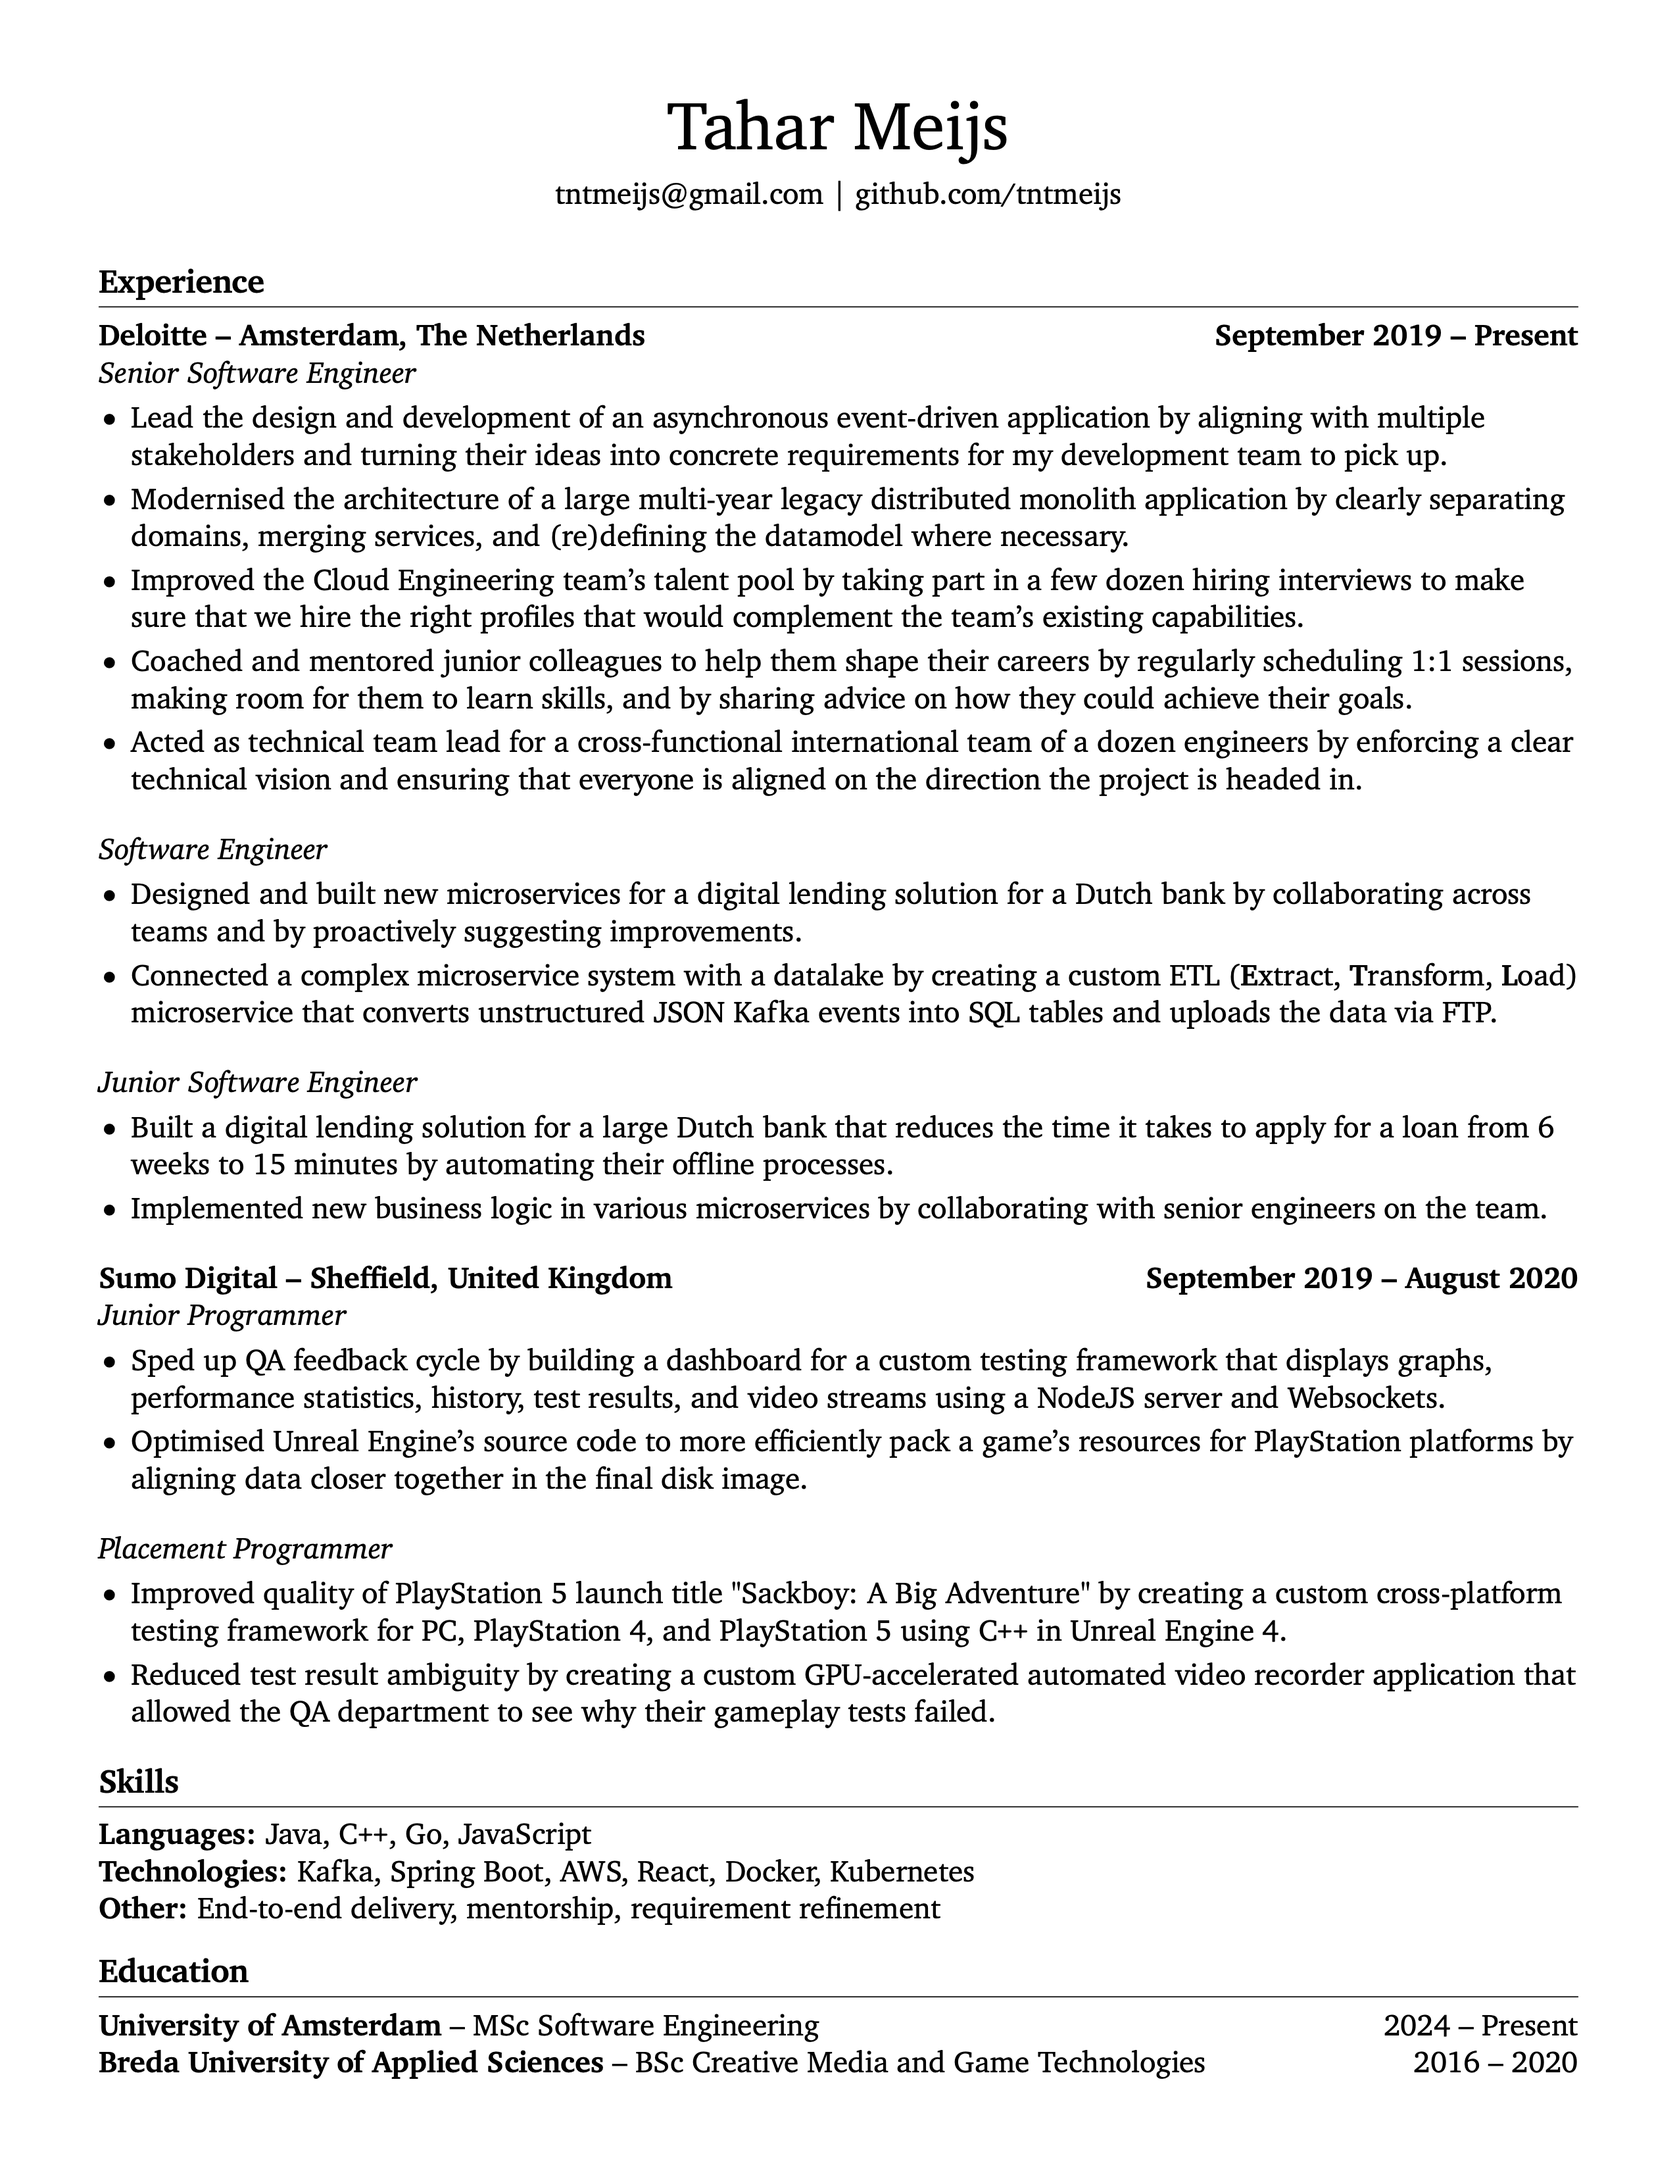
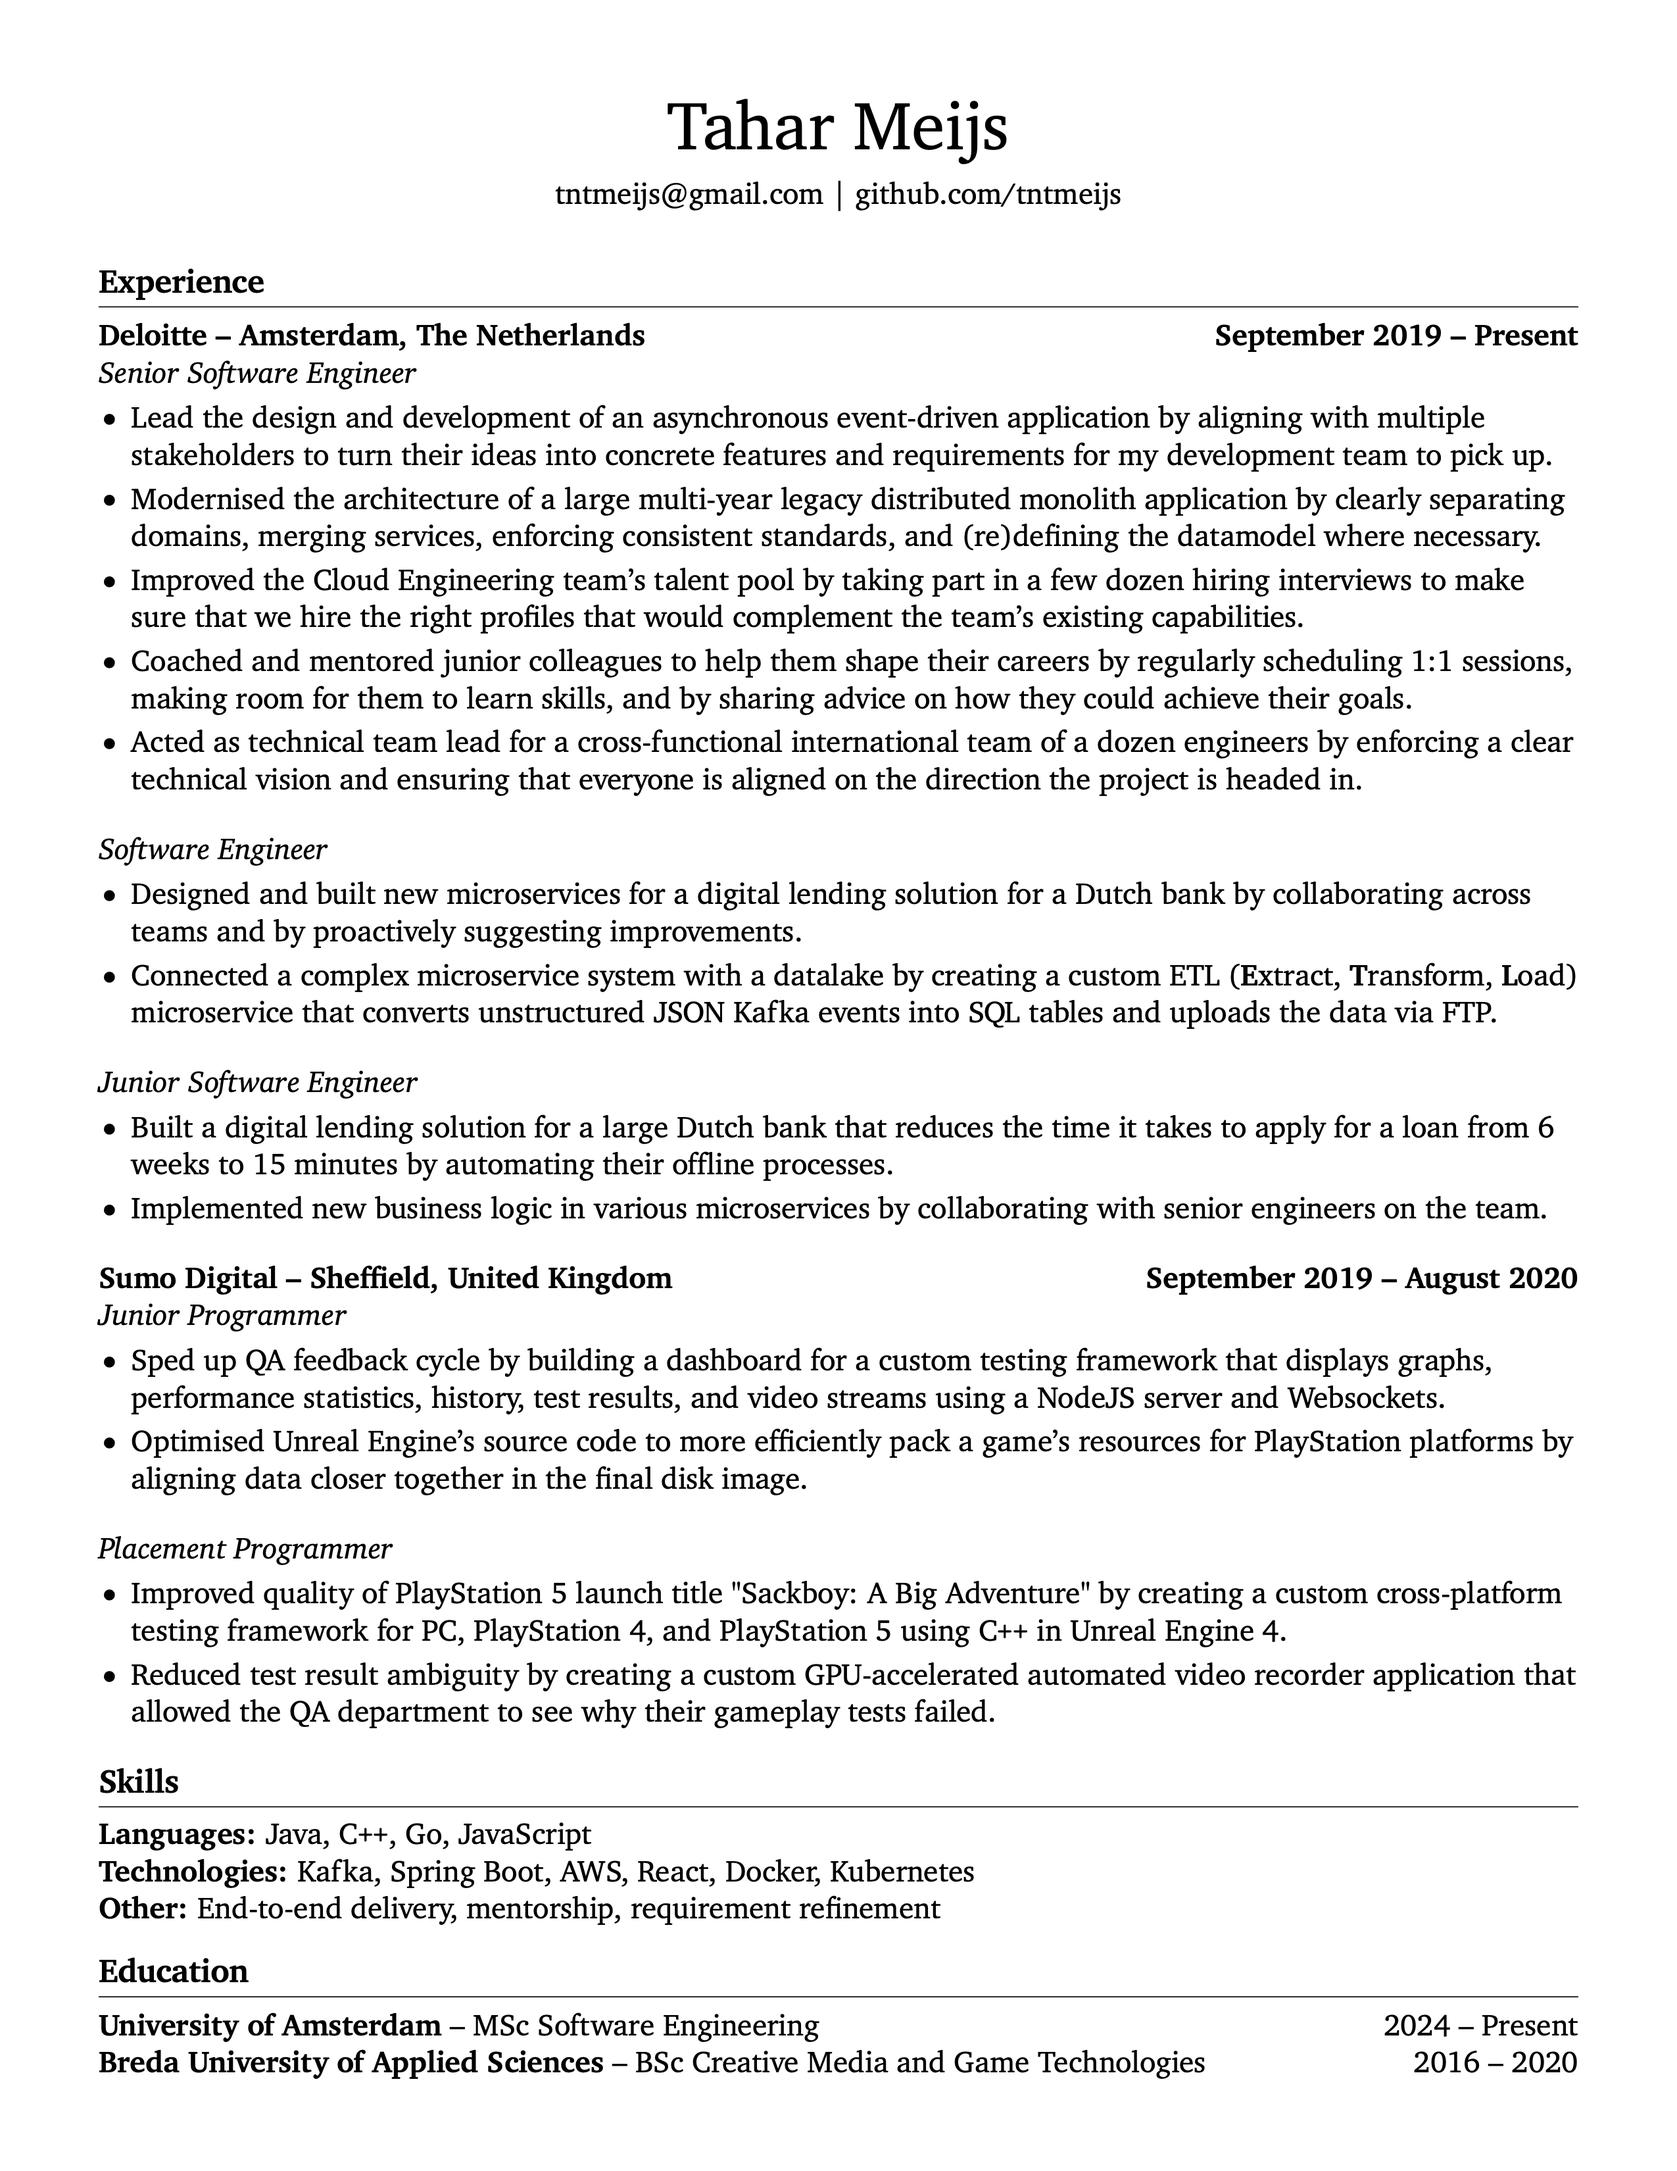
feat: improve wording of stakeholder management bullet point

Changed region(s): [[0.1859, 0.1873, 0.8984, 0.2497]]

diff --git a/backend_software_engineer.tex b/backend_software_engineer.tex
@@ -42,8 +42,8 @@ right=0.5in]{geometry}              % specify right page margin
 \textit{Senior Software Engineer} \\
 \vspace{-9pt}
 \begin{itemize}
-  \item Lead the design and development of an asynchronous event-driven application by aligning with multiple stakeholders and turning their ideas into concrete requirements for my development team to pick up.
-  \item Modernised the architecture of a large multi-year legacy distributed monolith application by clearly separating domains, merging services, and (re)defining the datamodel where necessary.
+  \item Lead the design and development of an asynchronous event-driven application by aligning with multiple stakeholders to turn their ideas into concrete features and requirements for my development team to pick up.
+  \item Modernised the architecture of a large multi-year legacy distributed monolith application by clearly separating domains, merging services, enforcing consistent standards, and (re)defining the datamodel where necessary.
   \item Improved the Cloud Engineering team's talent pool by taking part in a few dozen hiring interviews to make sure that we hire the right profiles that would complement the team's existing capabilities.
   \item Coached and mentored junior colleagues to help them shape their careers by regularly scheduling 1:1 sessions, making room for them to learn skills, and by sharing advice on how they could achieve their goals.
   \item Acted as technical team lead for a cross-functional international team of a dozen engineers by enforcing a clear technical vision and ensuring that everyone is aligned on the direction the project is headed in.
